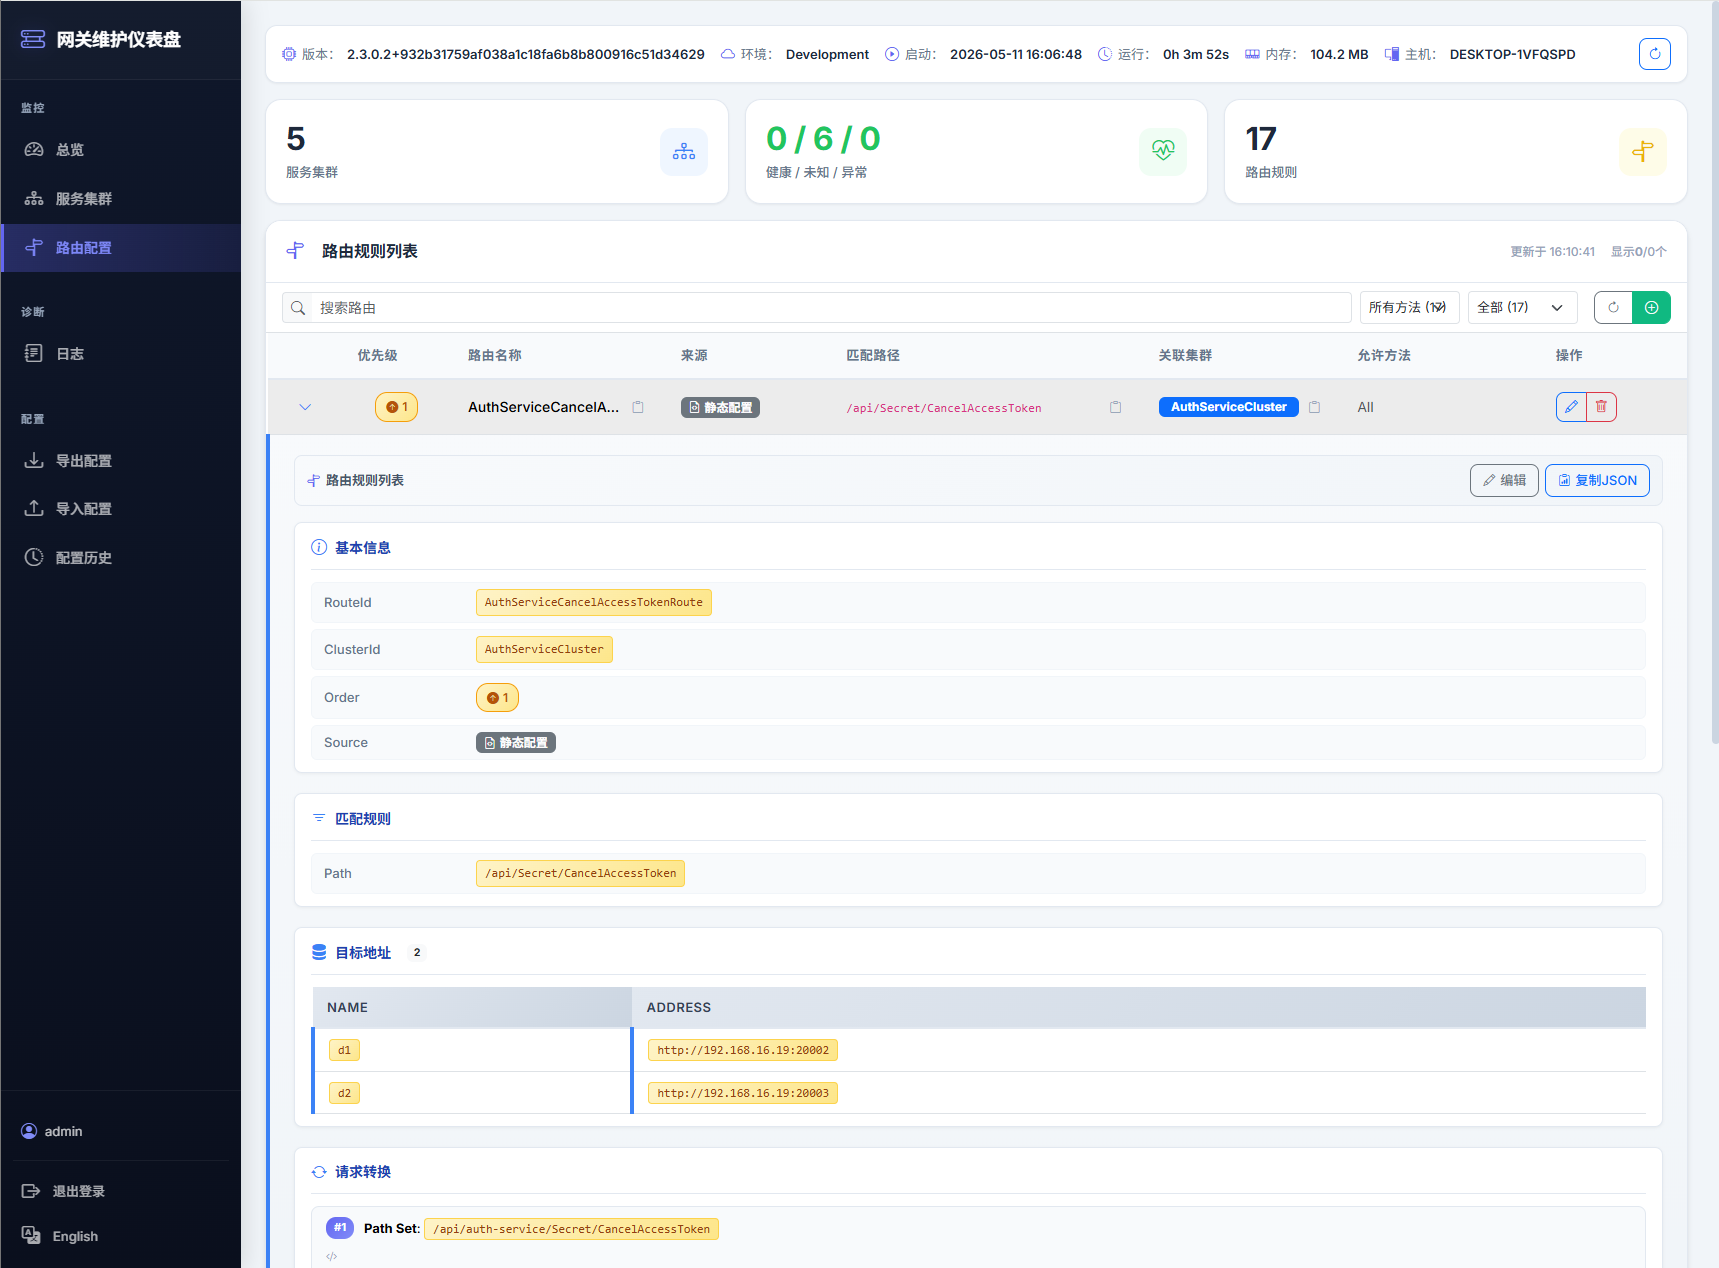
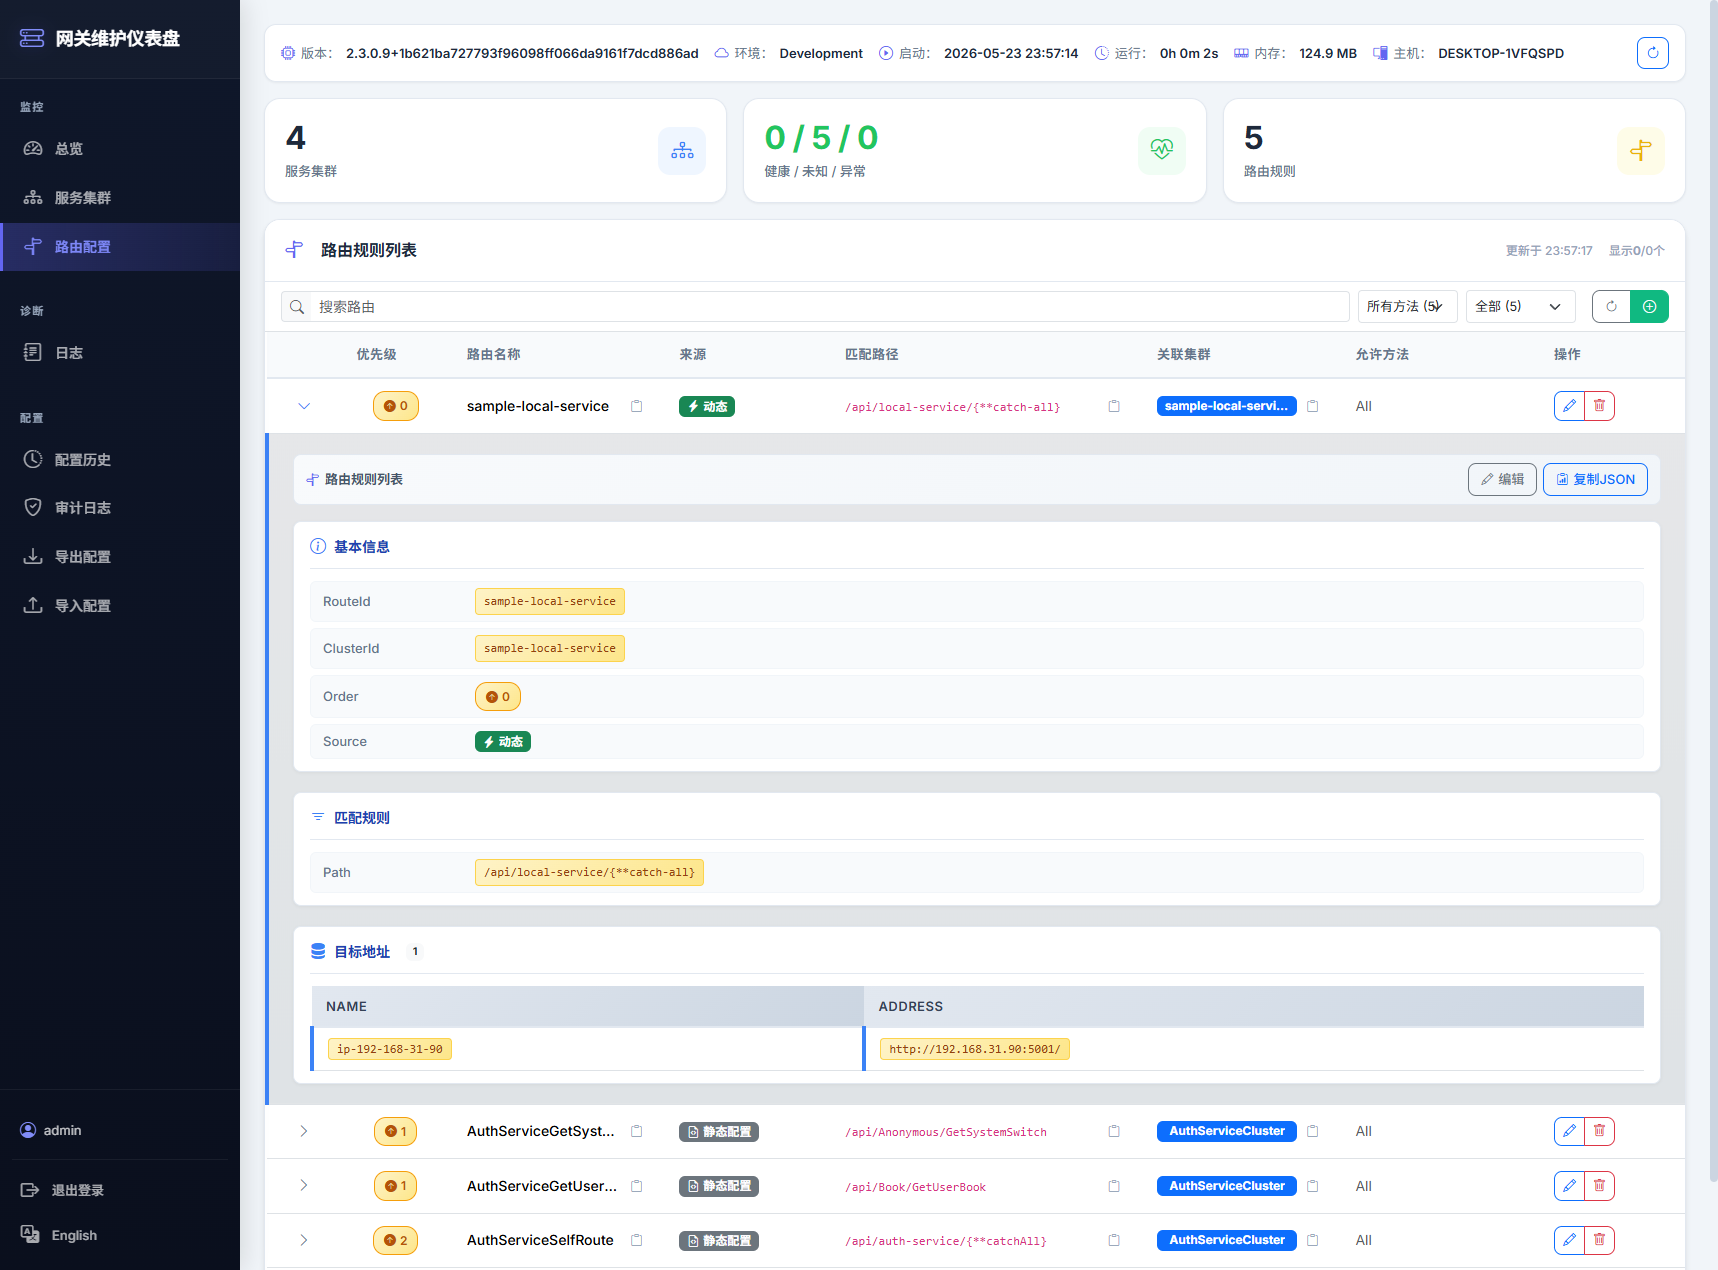
更新博客

diff --git a/docs/blog-introduction.zh-CN.md b/docs/blog-introduction.zh-CN.md
@@ -15,7 +15,7 @@
 
 ## 它是什么
 
-[Aneiang.Yarp](https://github.com/aneiang/Aneiang.Yarp) 是基于微软官方 [YARP (Yet Another Reverse Proxy)](https://microsoft.github.io/reverse-proxy/) 2.3.0 构建的 API 网关增强方案，MIT 协议开源，支持 .NET 8.0 和 .NET 9.0。
+[Aneiang.Yarp](https://gitee.com/aneiangsoft/aneiang-yarp) 是基于微软官方 [YARP (Yet Another Reverse Proxy)](https://microsoft.github.io/reverse-proxy/) 2.3.0 构建的 API 网关增强方案，MIT 协议开源，支持 .NET 8.0 和 .NET 9.0。
 
 它通过三个 NuGet 包，提供 **Dashboard 管理面板 + 动态路由 + 自动注册 + IP 隔离** 四大能力：
 
@@ -210,7 +210,7 @@ YARP 本身很优秀，但缺少管理界面和动态配置能力一直是实际
 - 功能实用 — 配置回滚、日志脱敏、自动注册，都是刚需
 - MIT 协议 — 放心用
 
-**源码地址**：[https://github.com/aneiang/Aneiang.Yarp](https://github.com/aneiang/Aneiang.Yarp)
+**源码地址**：[GitHub](https://github.com/AneiangSoft/Aneiang.Yarp) | [Gitee](https://gitee.com/aneiangsoft/aneiang-yarp)
 
 如果你正在用 YARP，不妨花 5 分钟试一下。
 
@@ -220,4 +220,4 @@ YARP 本身很优秀，但缺少管理界面和动态配置能力一直是实际
 >
 > | 上一篇 — | [下一篇：微服务接入网关只需一行代码](./blog-client.zh-CN.md) | [系列目录](./series-index.zh-CN.md) |
 >
-> 觉得有用？去 [GitHub 点个 Star](https://github.com/aneiang/Aneiang.Yarp) 支持一下。
+> 觉得有用？去 [GitHub](https://github.com/AneiangSoft/Aneiang.Yarp) 或 [Gitee](https://gitee.com/aneiangsoft/aneiang-yarp) 点个 Star 支持一下。

diff --git a/docs/series-index.zh-CN.md b/docs/series-index.zh-CN.md
@@ -91,11 +91,12 @@
 
 ## 代码仓库
 
-- **GitHub**：[https://github.com/aneiang/Aneiang.Yarp](https://github.com/aneiang/Aneiang.Yarp)
+- **GitHub**：[https://github.com/AneiangSoft/Aneiang.Yarp](https://github.com/AneiangSoft/Aneiang.Yarp)
+- **Gitee**：[https://gitee.com/aneiangsoft/aneiang-yarp](https://gitee.com/aneiangsoft/aneiang-yarp)
 - **开源协议**：MIT
 
 ---
 
 > 本文是 **Aneiang.Yarp 源码解析系列** 的索引页。系列文章同步发布于微信公众号、CSDN、博客园。
 >
-> 觉得有用？去 [GitHub 点个 Star](https://github.com/aneiang/Aneiang.Yarp) 支持一下。
+> 觉得有用？去 [GitHub](https://github.com/AneiangSoft/Aneiang.Yarp) 或 [Gitee](https://gitee.com/aneiangsoft/aneiang-yarp) 点个 Star 支持一下。

diff --git a/docs/blog-client.zh-CN.md b/docs/blog-client.zh-CN.md
@@ -309,7 +309,7 @@ app.Run();
 | 优雅关闭 | IHostedService | K8s 下线不丢请求 |
 | 认证智能推断 | 读取 Dashboard JWT 密码 | 客户端零配置 |
 
-**源码地址**：[https://github.com/aneiang/Aneiang.Yarp](https://github.com/aneiang/Aneiang.Yarp)
+**源码地址**：[GitHub](https://github.com/AneiangSoft/Aneiang.Yarp) | [Gitee](https://gitee.com/aneiangsoft/aneiang-yarp)
 
 ```bash
 dotnet add package Aneiang.Yarp.Client
@@ -322,4 +322,4 @@ dotnet add package Aneiang.Yarp.Client
 >
 > | [上一篇：项目总览](./blog-introduction.zh-CN.md) | [下一篇：网关核心模块架构解析](./blog-core.zh-CN.md) | [系列目录](./series-index.zh-CN.md) |
 >
-> 觉得有用？去 [GitHub 点个 Star](https://github.com/aneiang/Aneiang.Yarp) 支持一下。
+> 觉得有用？去 [GitHub](https://github.com/AneiangSoft/Aneiang.Yarp) 或 [Gitee](https://gitee.com/aneiangsoft/aneiang-yarp) 点个 Star 支持一下。

diff --git a/docs/blog-core.zh-CN.md b/docs/blog-core.zh-CN.md
@@ -315,7 +315,7 @@ YARP 的 `InMemoryConfigProvider.Update()` 不是线程安全的。`ReaderWriter
 | API 鉴权 | 三级凭证 + 智能推断 | 配置最少，安全最大 |
 | 注册安全 | MVC Convention 移除路由 | 404 而非 403 |
 
-**源码地址**：[https://github.com/aneiang/Aneiang.Yarp](https://github.com/aneiang/Aneiang.Yarp)
+**源码地址**：[GitHub](https://github.com/AneiangSoft/Aneiang.Yarp) | [Gitee](https://gitee.com/aneiangsoft/aneiang-yarp)
 
 ```bash
 dotnet add package Aneiang.Yarp
@@ -328,4 +328,4 @@ dotnet add package Aneiang.Yarp
 >
 > | [上一篇：客户端自动注册](./blog-client.zh-CN.md) | [下一篇：可视化 Dashboard](./blog-dashboard.zh-CN.md) | [系列目录](./series-index.zh-CN.md) |
 >
-> 觉得有用？去 [GitHub 点个 Star](https://github.com/aneiang/Aneiang.Yarp) 支持一下。
+> 觉得有用？去 [GitHub](https://github.com/AneiangSoft/Aneiang.Yarp) 或 [Gitee](https://gitee.com/aneiangsoft/aneiang-yarp) 点个 Star 支持一下。

diff --git a/docs/blog-dashboard.zh-CN.md b/docs/blog-dashboard.zh-CN.md
@@ -237,7 +237,7 @@ builder.Services.AddAneiangYarpDashboard(options =>
 | 四种认证 | None / ApiKey / JWT / 自定义 | 从开发到生产全覆盖 |
 | 多语言 | 中英文运行时切换 | 国际化友好 |
 
-**源码地址**：[https://github.com/aneiang/Aneiang.Yarp](https://github.com/aneiang/Aneiang.Yarp)
+**源码地址**：[GitHub](https://github.com/AneiangSoft/Aneiang.Yarp) | [Gitee](https://gitee.com/aneiangsoft/aneiang-yarp)
 
 **在线预览**：http://113.45.65.71:8930/apigateway（admin / demo123）
 
@@ -253,4 +253,4 @@ dotnet add package Aneiang.Yarp.Dashboard
 >
 > | [上一篇：网关核心模块](./blog-core.zh-CN.md) | [下一篇：IP 隔离负载均衡](./blog-ip-isolation.zh-CN.md) | [系列目录](./series-index.zh-CN.md) |
 >
-> 觉得有用？去 [GitHub 点个 Star](https://github.com/aneiang/Aneiang.Yarp) 支持一下。
+> 觉得有用？去 [GitHub](https://github.com/AneiangSoft/Aneiang.Yarp) 或 [Gitee](https://gitee.com/aneiangsoft/aneiang-yarp) 点个 Star 支持一下。

diff --git a/docs/blog-ip-isolation.zh-CN.md b/docs/blog-ip-isolation.zh-CN.md
@@ -311,7 +311,7 @@ curl http://网关:5000/api/local-service/ping
 | 自动兜底 | 无匹配返回第一个可用实例 | 未注册 IP 也能用 |
 | 代理兼容 | X-Forwarded-For 优先 | Nginx/Caddy 后正常工作 |
 
-**源码地址**：[https://github.com/aneiang/Aneiang.Yarp](https://github.com/aneiang/Aneiang.Yarp)
+**源码地址**：[GitHub](https://github.com/AneiangSoft/Aneiang.Yarp) | [Gitee](https://gitee.com/aneiangsoft/aneiang-yarp)
 
 ```bash
 # 客户端
@@ -327,4 +327,4 @@ dotnet add package Aneiang.Yarp.Client
 >
 > | [上一篇：可视化 Dashboard](./blog-dashboard.zh-CN.md) | [系列目录](./series-index.zh-CN.md) |
 >
-> 觉得有用？去 [GitHub 点个 Star](https://github.com/aneiang/Aneiang.Yarp) 支持一下。
+> 觉得有用？去 [GitHub](https://github.com/AneiangSoft/Aneiang.Yarp) 或 [Gitee](https://gitee.com/aneiangsoft/aneiang-yarp) 点个 Star 支持一下。